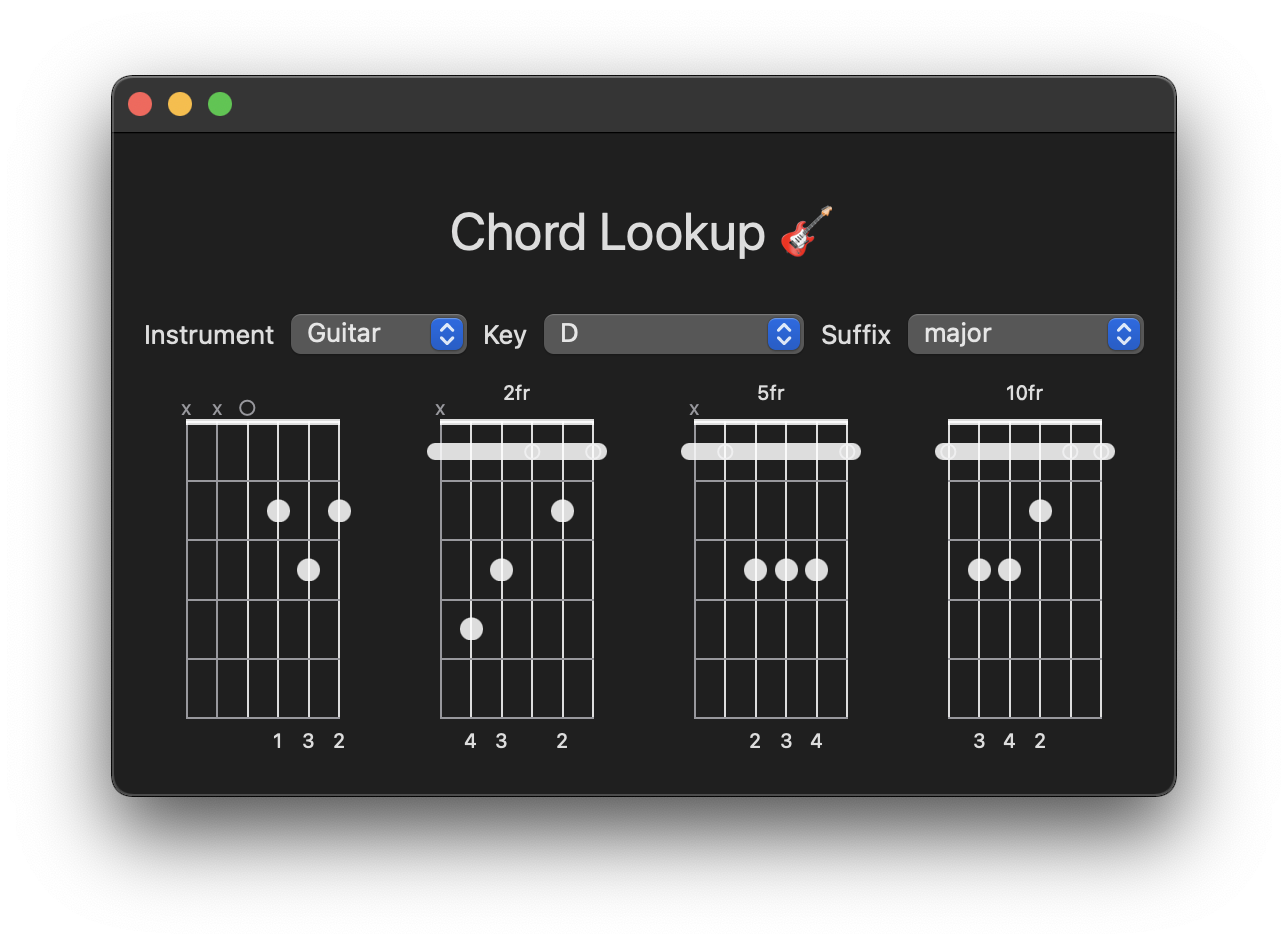
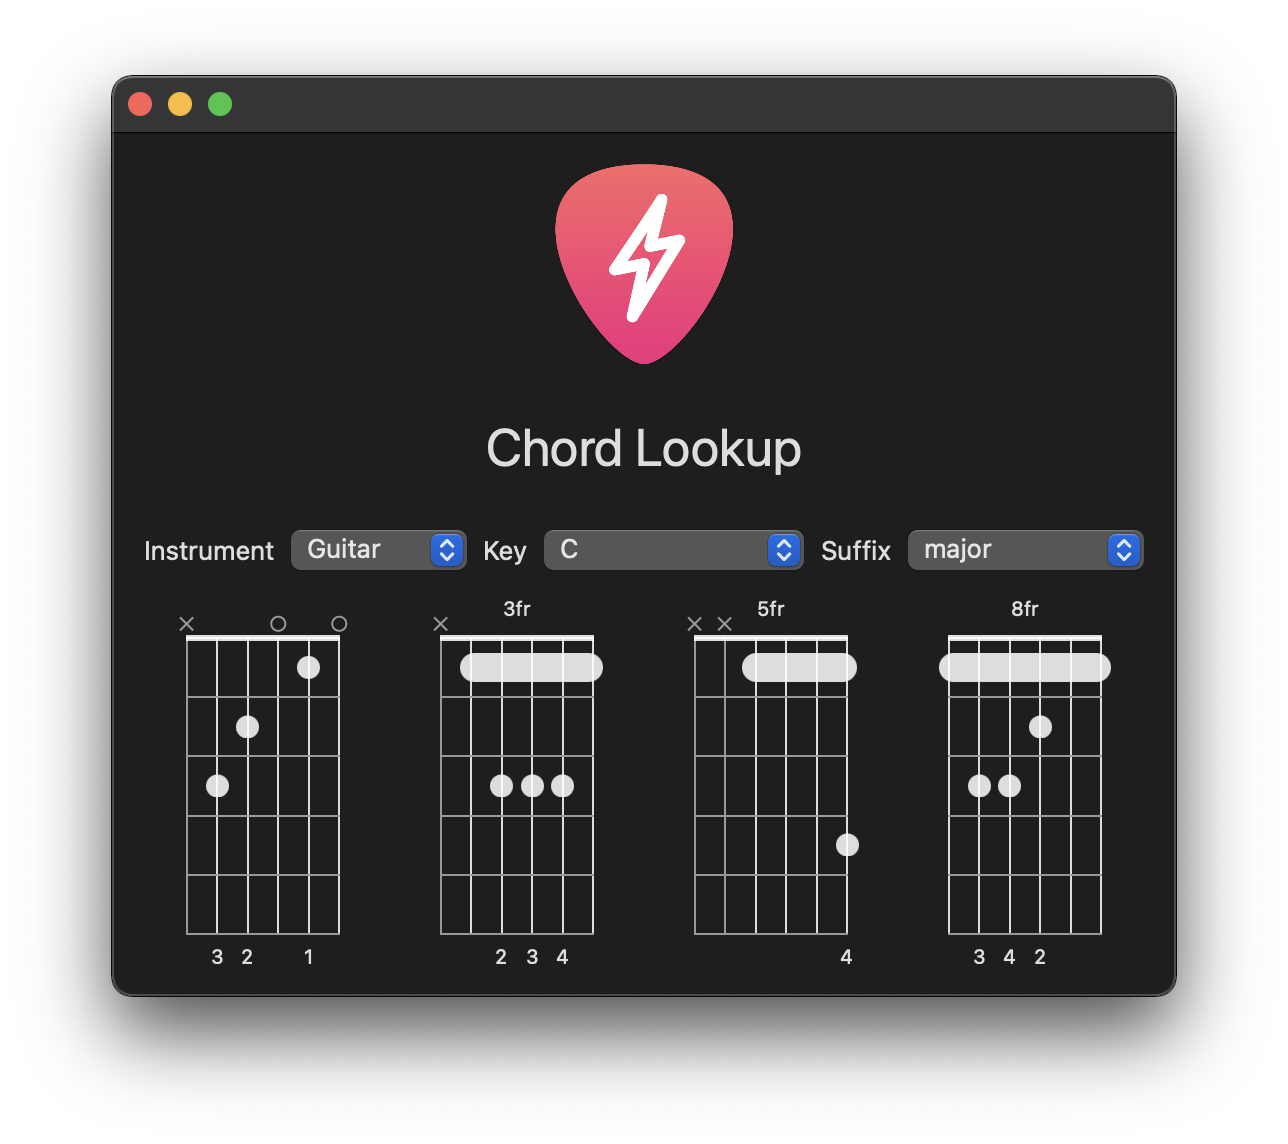
Update screenshot

diff --git a/Demo/Demo/ContentView.swift b/Demo/Demo/ContentView.swift
@@ -11,11 +11,12 @@ struct ContentView: View {
     @State private var selectedInstrument: Instrument = .guitar
     @State private var selectedKey: String = "C"
     @State private var selectedSuffix: String = "major"
+    
+    private var columns: [GridItem] =
+                 Array(repeating: .init(.flexible()), count: 4)
 
     private let instruments = [Instrument.guitar, Instrument.ukulele]
     
-    private var columns: [GridItem] =
-             Array(repeating: .init(.flexible()), count: 4)
     private var foundChords: [Chord.Position] {
         selectedInstrument.findChordPositions(key: selectedKey, suffix: selectedSuffix)
     }
@@ -23,7 +24,11 @@ struct ContentView: View {
     var body: some View {
         ScrollView {
             VStack {
-                Text("Chord Lookup 🎸")
+                Image("logo")
+                    .resizable()
+                    .frame(width: 100, height: 100)
+                
+                Text("Chord Lookup")
                     .font(.largeTitle)
                     .padding()
                 
@@ -57,7 +62,7 @@ struct ContentView: View {
                 Spacer()
             }
         }
-        .frame(width: 500, height: 300)
+        .frame(width: 500, height: 400)
         .padding()
     }
 }
